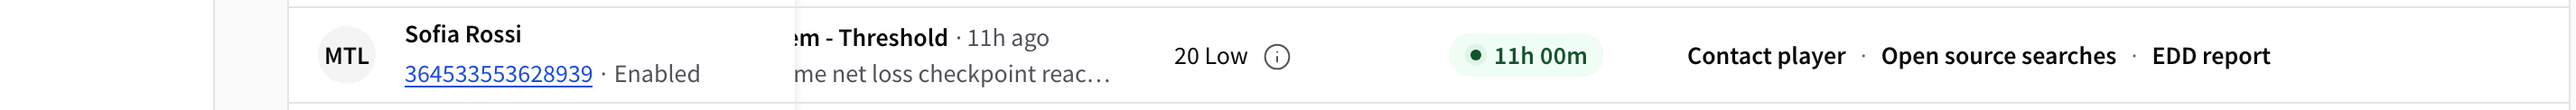
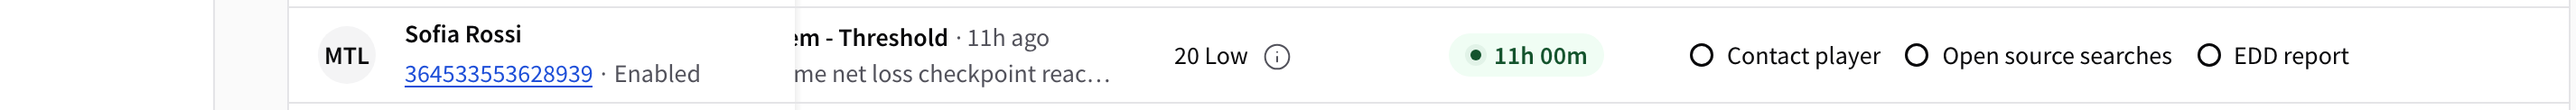
feat(table): the Work column holds its order, and a ring or a tick says what is left
- The three required actions always sit in the required order; a finished
  action stays in place, so each one lines up down the table.
- Every item has a 16px icon: an empty ring for to do, the outlined round
  check for done. To do is 500 in full ink, done 400 in the muted ink.
  Bold no longer carries the state, and the dots between items are gone.
- The "+N" counts use foreground-secondary. --foreground-subtle (#6F6F78),
  a grey outside the library, is deleted.
- Table and stress checks updated; handoff docs 20, 21 and 24 no longer name
  the deleted token; stress captures refreshed.

Changed region(s): [[0.6553, 0.3934, 0.9362, 0.6148]]

diff --git a/aml-case-modal/src/app/components/cases-table.component.ts b/aml-case-modal/src/app/components/cases-table.component.ts
@@ -464,28 +464,33 @@ import { WorkPopoverComponent } from './work-popover.component';
                   <!-- To-do first. Two chips, then the count. Nothing is actionable. -->
                   <!--
                     Text, not chips - D-12. Four pills a row read as four
-                    controls; the column is a statement about what is left to
-                    do, and every to-do item is one to action.
+                    controls.
 
-                    Order and WEIGHT carry the priority, never colour alone:
-                    green marks completion, which is a different fact.
+                    Steady, picked 26 Nov 2026 from six: the required order
+                    never moves, so each action lines up down the table, and a
+                    ring or a filled tick on every item says which are left.
+                    Bold for "to do" needed explaining; a ring does not.
                   -->
                   <td class="cell--work">
                     <span class="work-row" [attr.aria-label]="workSummary(c)">
-                      @for (w of cases.workRow(c); track w.type; let i = $index) {
-                        @if (i > 0) {
-                          <span class="work__sep" aria-hidden="true">·</span>
-                        }
+                      @for (w of cases.requiredWork(c); track w.type) {
                         <span
                           class="work__item"
                           [class.work__item--done]="w.state === 'done'"
                           aria-hidden="true"
                         >
                           @if (w.state === 'done') {
-                            <!-- The Round outlined check, inline: a fill path on
-                                 currentColor, so the item's muted ink is the icon's. -->
-                            <svg class="work__tick" viewBox="0 0 16 16" fill="currentColor" aria-hidden="true" focusable="false">
+                            <!-- The library's check_circle, Round outlined, inline
+                                 at 16 x 16 on currentColor. Outlined, not filled:
+                                 a solid disc in the label's own grey read darker
+                                 than the label, because text is thin strokes and a
+                                 disc is not. Lines the weight of the letters match. -->
+                            <svg class="work__glyph work__glyph--done" viewBox="0 0 16 16" fill="currentColor" aria-hidden="true" focusable="false">
                               <path d="M8.00016 1.33331C4.32016 1.33331 1.3335 4.31998 1.3335 7.99998C1.3335 11.68 4.32016 14.6666 8.00016 14.6666C11.6802 14.6666 14.6668 11.68 14.6668 7.99998C14.6668 4.31998 11.6802 1.33331 8.00016 1.33331ZM8.00016 13.3333C5.06016 13.3333 2.66683 10.94 2.66683 7.99998C2.66683 5.05998 5.06016 2.66665 8.00016 2.66665C10.9402 2.66665 13.3335 5.05998 13.3335 7.99998C13.3335 10.94 10.9402 13.3333 8.00016 13.3333ZM10.5868 5.52665L6.66683 9.44665L5.4135 8.19331C5.1535 7.93331 4.7335 7.93331 4.4735 8.19331C4.2135 8.45331 4.2135 8.87331 4.4735 9.13331L6.20016 10.86C6.46016 11.12 6.88016 11.12 7.14016 10.86L11.5335 6.46665C11.7935 6.20665 11.7935 5.78665 11.5335 5.52665C11.2735 5.26665 10.8468 5.26665 10.5868 5.52665Z" />
+                            </svg>
+                          } @else {
+                            <svg class="work__glyph" viewBox="0 0 16 16" fill="none" stroke="currentColor" stroke-width="1.5" aria-hidden="true" focusable="false">
+                              <circle cx="8" cy="8" r="5.917" />
                             </svg>
                           }
                           {{ cases.workLabel(w.type) }}
@@ -1723,44 +1728,38 @@ import { WorkPopoverComponent } from './work-popover.component';
         line-height: 20px;
         white-space: nowrap;
       }
+      /**
+       * Steady (26 Nov 2026). The glyph carries the state: a ring is to do,
+       * a filled tick is done. Weight only backs it up - 500 against 400 -
+       * because 600 on up to three items a row made this the loudest column
+       * on the page. The glyphs separate the items, so there are no dots.
+       * Inks are the two the table already has; nothing new.
+       */
       .work__item {
         display: inline-flex;
         align-items: center;
-        gap: 4px;
+        gap: 6px;
         min-width: 0;
         overflow: hidden;
         text-overflow: ellipsis;
-        font-weight: 400;
-        color: var(--foreground-secondary);
-      }
-      /* The one to action. */
-      /* Done, wherever it lands in the order. */
-      /**
-       * Rafal (2 Oct): to-do is the statement, done is the record.
-       *
-       * Every to-do item at 600 in full ink - not only the first, now that the
-       * row is the required set and each of them is one to action. Done items
-       * muted at 400 behind their tick. The success green goes with D-12's
-       * reading: completion is a tick, not a colour.
-       */
-      .work__item {
-        font-weight: 600;
+        font-weight: 500;
         color: var(--foreground-primary);
+      }
+      .work__item + .work__item {
+        margin-left: 4px;
       }
       .work__item--done {
         font-weight: 400;
         color: var(--foreground-secondary);
       }
-      .work__tick {
+      /* A 16 x 16 box, like every icon in the row. The circle inside is 13.33
+         across - the library icons' own inset (check_circle, info) - so it
+         sits level with the info glyph in Priority. */
+      .work__glyph {
         flex: none;
-        font-size: 16px;
         width: 16px;
         height: 16px;
-        line-height: 16px;
-      }
-      .work__sep {
-        flex: none;
-        color: var(--foreground-subtle);
+        min-width: 16px;
       }
       /* A control, but the quietest in the row: the four inline items are the
          scan, and this is only the way to the rest. */
@@ -1779,7 +1778,9 @@ import { WorkPopoverComponent } from './work-popover.component';
         font: inherit;
         font-size: 14px;
         font-weight: 500;
-        color: var(--foreground-subtle);
+        /* The table's muted ink. It had a grey of its own until 26 Nov 2026;
+           that was a colour outside the library. */
+        color: var(--foreground-secondary);
         cursor: pointer;
         transition: background-color 150ms ease;
       }

diff --git a/aml-case-modal/src/styles.scss b/aml-case-modal/src/styles.scss
@@ -228,16 +228,6 @@
    * for. Naming them is what makes the sticky column possible.
    */
   /**
-   * The quietest readable ink. Used for the Triggers column's "+N", which is
-   * a count rather than a label - it should recede behind the trigger name and
-   * its time, and still be read when wanted.
-   *
-   * #6F6F78 is the lightest grey that clears 4.5:1 on BOTH surfaces a row
-   * sits on: 4.98 on white, 4.53 on the hover wash. A step lighter (#71717A)
-   * passes on white and fails at 4.40 the moment the row is hovered.
-   */
-  --foreground-subtle: #6F6F78;
-  /**
    * A neutral disc a monogram can sit on. --line's value, not a new colour:
    * it is the lightest step that still reads as a shape against --panel.
    */

diff --git a/docs/handoff/24-table-accessibility.md b/docs/handoff/24-table-accessibility.md
@@ -14,7 +14,7 @@ modal's own sheet is [08](08-accessibility.md); the two share the rules.
 | Severity / SLA pills | `ui-pill` | Text is the value | — | — | SLA text ≥ 4.5:1 on each tint; breached `--danger-deep` on solid |
 | Priority | text + `button.prio__info` | *Score breakdown for N*; `aria-expanded` from MatMenuTrigger | Tab, Enter/Space; Escape closes | 24px round | Glyph `--foreground-secondary` 7.09:1 (was `currentColor` at .5 opacity, 2.28:1 — a 1.4.11 failure, fixed) |
 | Work | wrapper `aria-label` sentence; spans `aria-hidden` | *3 required actions, 2 to do: …; done: …; N more in the timeline* | Only the count is focusable | — | To-do `--foreground-primary`; done `--foreground-secondary` |
-| Count buttons | `button` | *Show all N triggers* / *Show all work items*; tooltip; `aria-expanded`, `aria-haspopup="menu"` from the trigger | Tab, Enter/Space; Escape closes and returns focus | **32×≥30** (2.5.8 met; 2.5.5's 44 not targeted) | `--foreground-subtle` 5.0:1 at rest, primary on hover |
+| Count buttons | `button` | *Show all N triggers* / *Show all work items*; tooltip; `aria-expanded`, `aria-haspopup="menu"` from the trigger | Tab, Enter/Space; Escape closes and returns focus | **32×≥30** (2.5.8 met; 2.5.5's 44 not targeted) | `--foreground-secondary` 7.7:1 at rest, primary on hover |
 | Lock disc | `button`; `aria-pressed="true"` when yours | *Lock case* / *Locked to you, click to unlock* / *Locked to M. Torres 1 day ago, click to force unlock* — spelled out, because a reader says "1d" as the letter d | Tab, Enter/Space | 32px round | Initials `--success` on `--success-bg-subtle`; primary on `--background-tertiary` 18.1:1 |
 | Open case | `button` | *Open AML case in new tab* (the visible tooltip is the widget's *Open case*) | Tab, Enter/Space | 32px square | White on `--primary` |
 | Popovers | mat-menu panel; Triggers list `role="list"` with `tabindex="0"` when it scrolls, labelled *Triggers, scrollable list*; Work lists `aria-labelledby` their group labels | — | Escape closes, focus returns to the button; one open at a time | — | Labels `--foreground-secondary` 7.7:1; entries primary |

diff --git a/docs/handoff/21-table-columns.md b/docs/handoff/21-table-columns.md
@@ -161,7 +161,7 @@ other `aria-sort="none"`. Persists for the session.
 ## Count buttons — one rule, two columns
 
 `.work__more` and `.trig__more` share one declaration: `min-height 32px`,
-`padding 0 8px`, `border-radius 4px`, 14px at 500, `--foreground-subtle` at
+`padding 0 8px`, `border-radius 4px`, 14px at 500, `--foreground-secondary` at
 rest; hover `--surface-hover` and `--foreground-primary`; focus ring `2px solid
 var(--primary)` offset 2. On the Triggers line the 32px box sits on a 20px line
 by a `-6px 0` margin, so the target stays 32 and the row stays 52. `aria-expanded`

diff --git a/docs/handoff/20-table-overview.md b/docs/handoff/20-table-overview.md
@@ -81,7 +81,6 @@ value).
 | `--background-tertiary` | `#F4F4F5` | Neutral pill ground; the held-by-another lock disc at rest |
 | `--surface-hover` | `var(--background-tertiary)` | Row hover; the count buttons' hover |
 | `--surface-subtle` | `#E4E4E7` | Currently unused (was the held disc) |
-| `--foreground-subtle` | `#6F6F78` | The count buttons at rest |
 | `--border-warning-subdued` / `--border-success-subdued` / `--border-negative-subdued` | `#FDE68A` / `#BBF7D0` / `#FECACA` | SLA pill borders |
 | `--danger-deep` | `#7F1D1D` | SLA breached text and dot |
 
